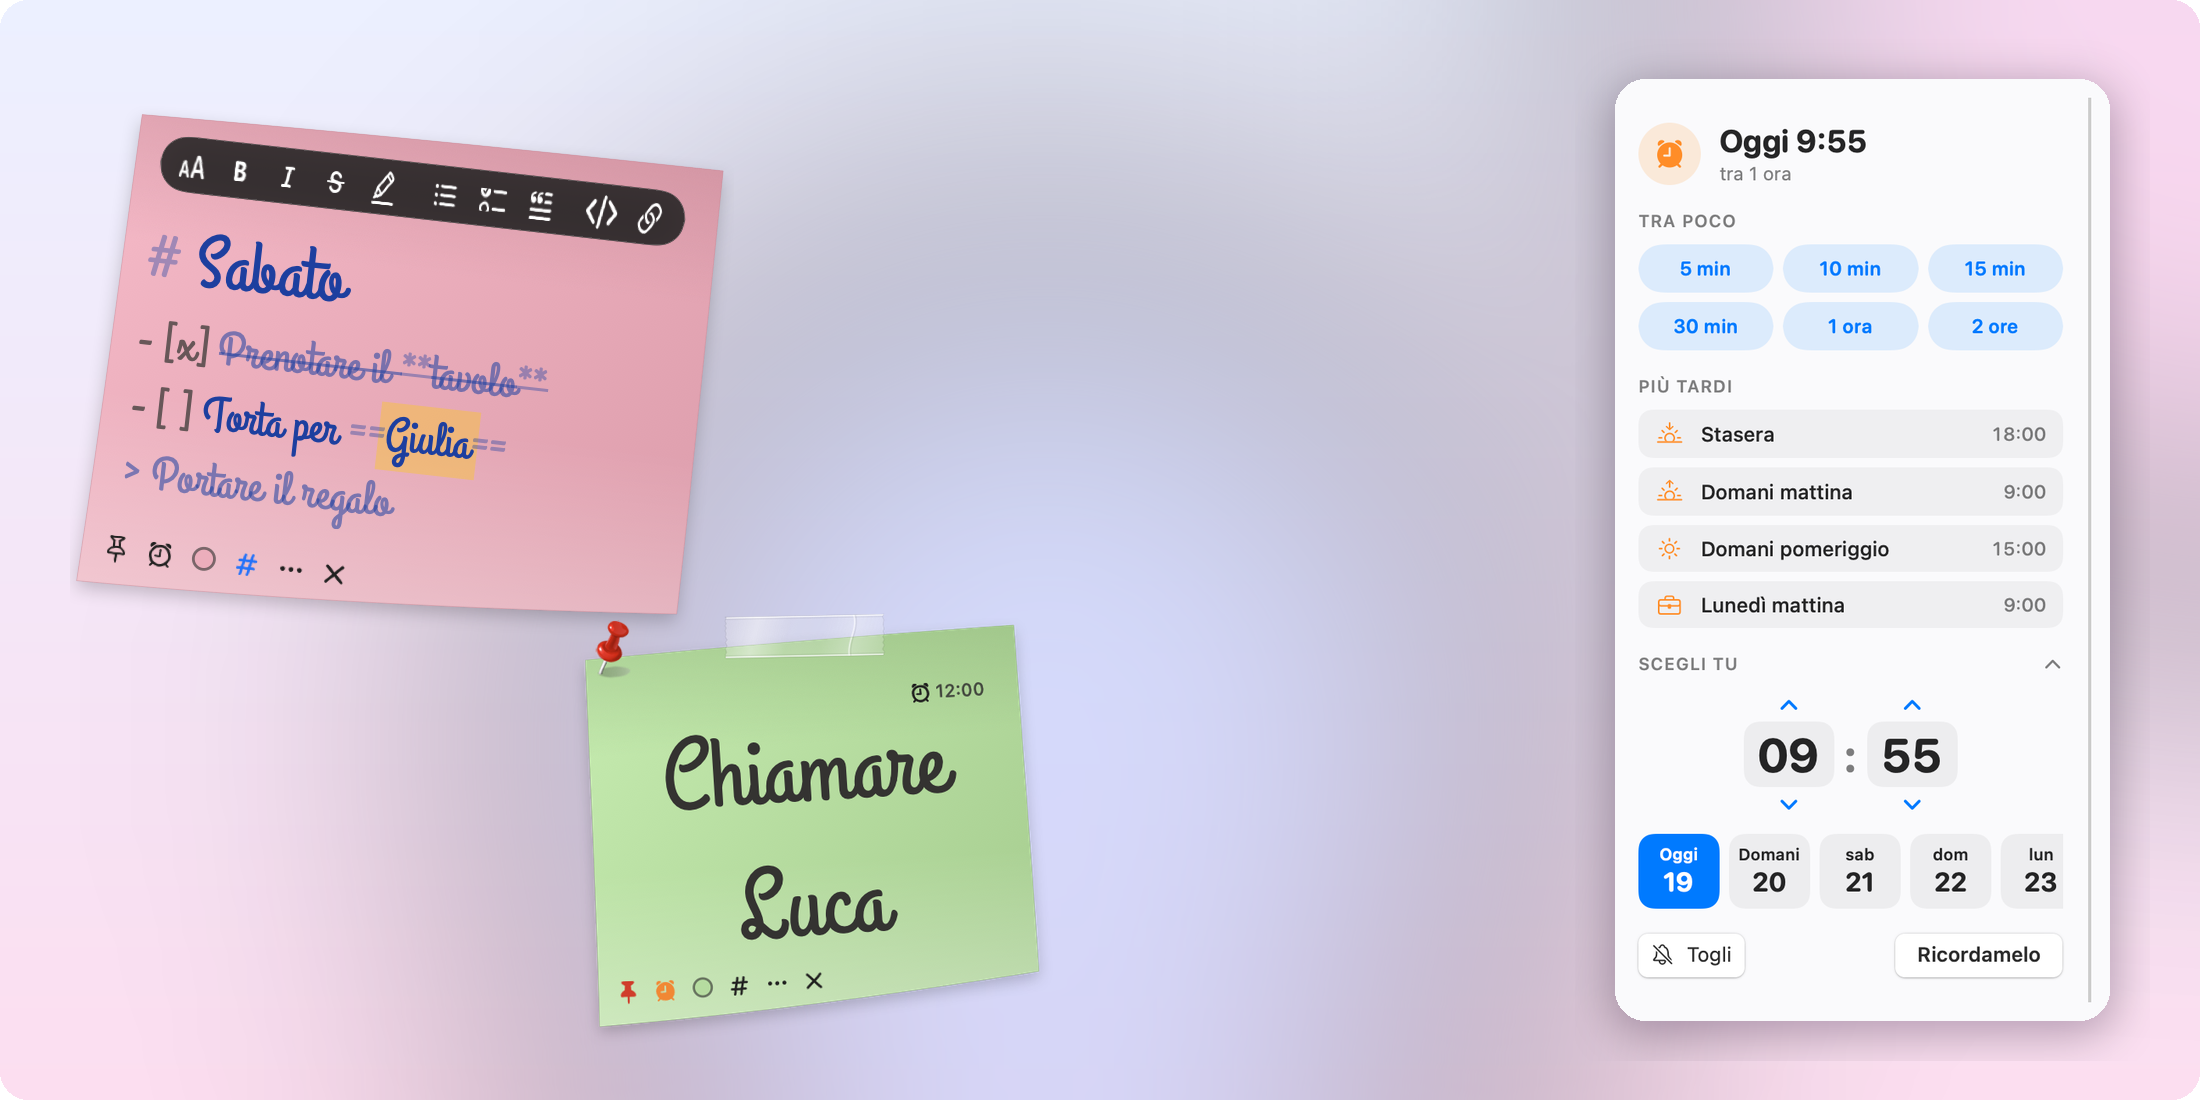
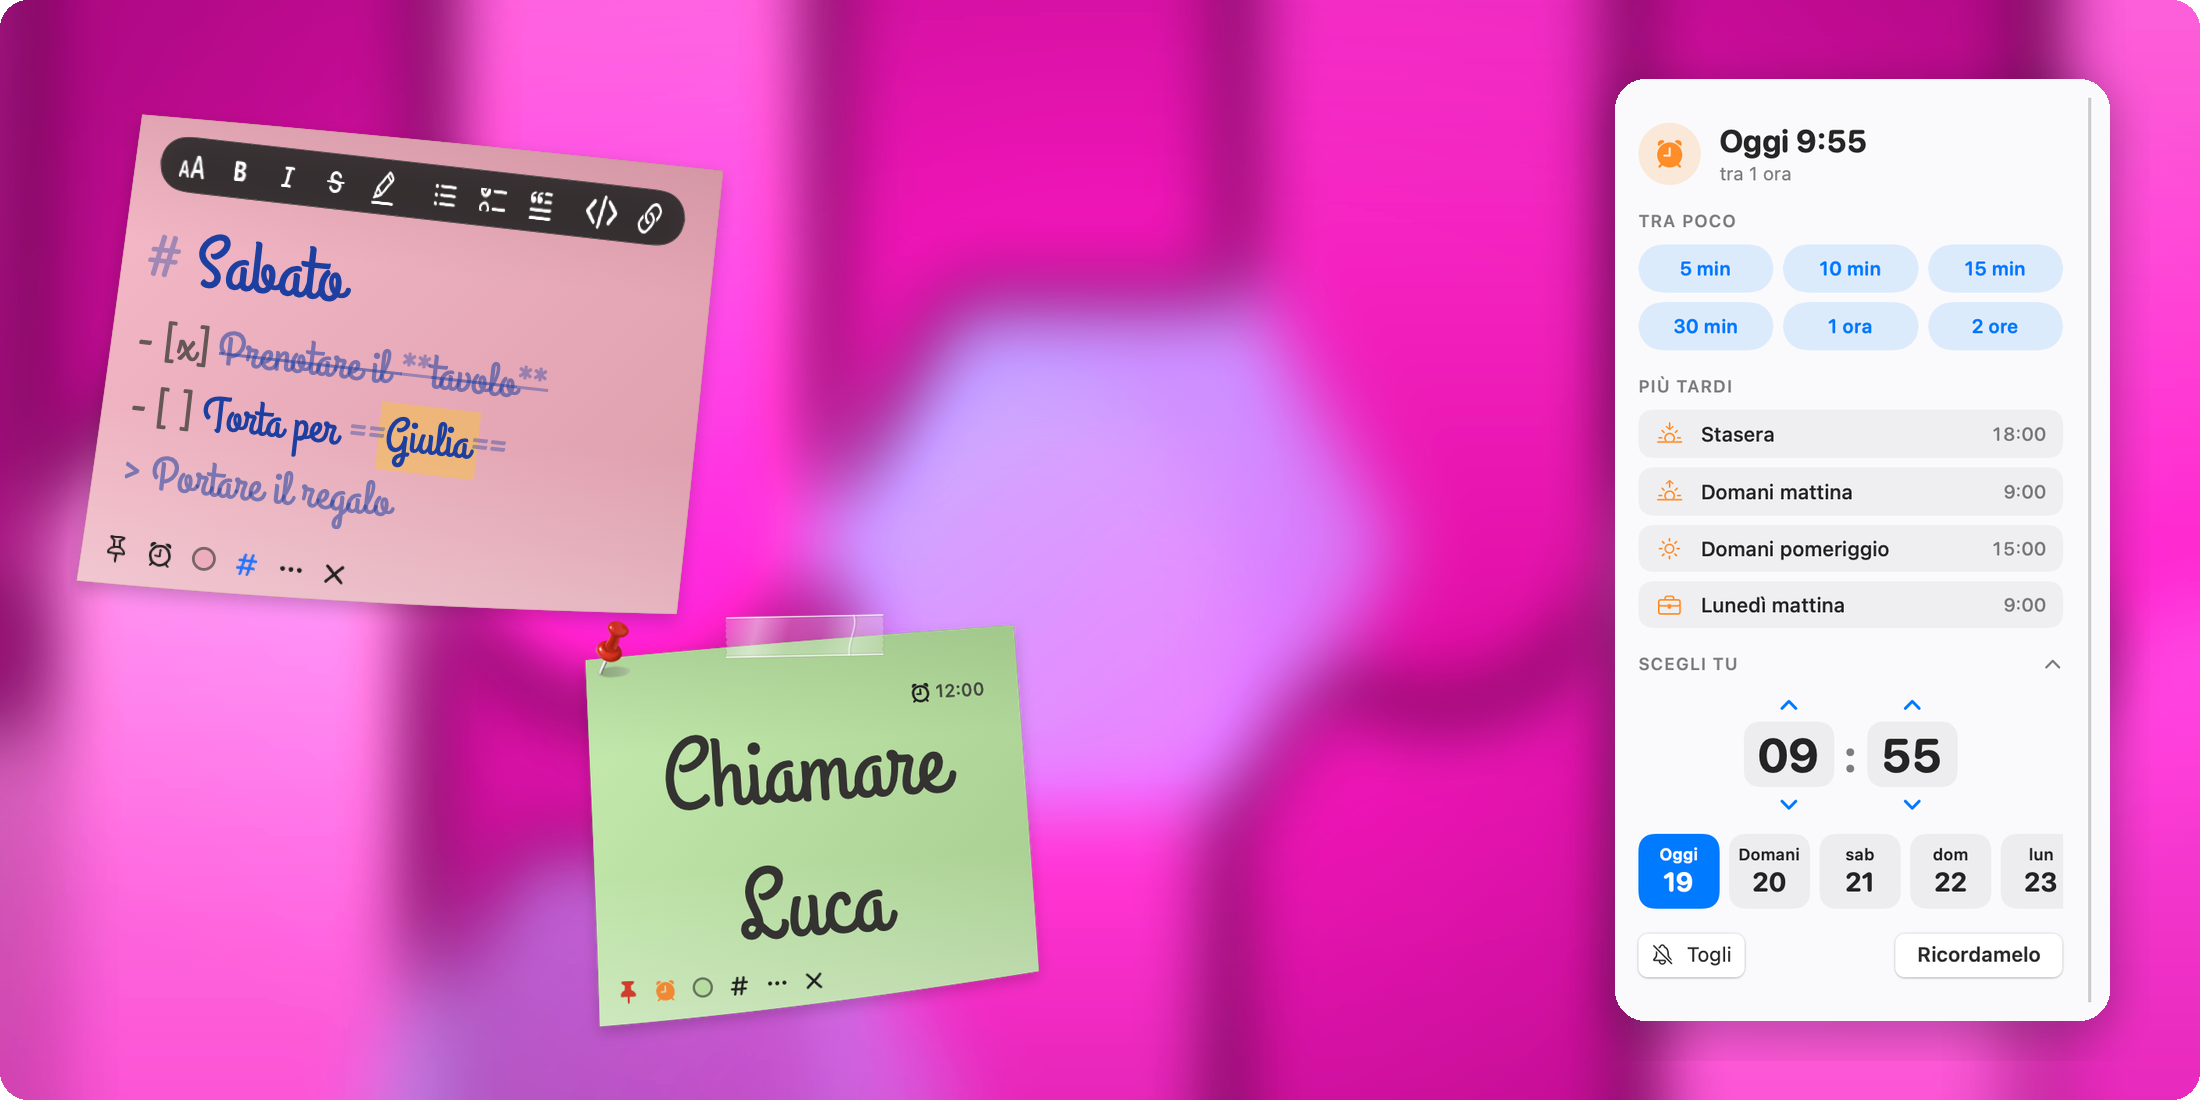
Immagini del README sullo sfondo fucsia di Pizzinu
make_screenshots.py usa lo stesso sfondo fucsia del sito e delle immagini
social per scrivania, temi, pizzino segreto e Markdown.

diff --git a/Scripts/make_screenshots.py b/Scripts/make_screenshots.py
@@ -8,11 +8,11 @@ Uso:
 Richiede Pillow. Produce desktop.png, themes.png, secret.png, markdown-reminder.png.
 Liquid Glass non c'è: il vetro di sistema non compare nelle istantanee.
 """
-import random
+import math
 import sys
 from pathlib import Path
 
-from PIL import Image, ImageDraw, ImageFilter
+from PIL import Image, ImageDraw, ImageFilter, ImageEnhance
 
 SNAP = Path(sys.argv[1])
 OUT = Path(sys.argv[2])
@@ -37,25 +37,72 @@ def scale(im: Image.Image, factor: float) -> Image.Image:
     return im.resize((round(im.width * factor), round(im.height * factor)), Image.LANCZOS)
 
 
-def wallpaper(w: int, h: int, colors, blobs, seed: int = 7) -> Image.Image:
-    """Sfondo sfumato con macchie di colore morbide, nello stile delle scrivanie di macOS."""
-    base = Image.new("RGB", (w, h))
-    top, bottom = colors
-    draw = ImageDraw.Draw(base)
+def hexc(h): return tuple(int(h[i:i + 2], 16) for i in (1, 3, 5))
+
+def vgrad(w, h, top, bottom):
+    g = Image.new('RGB', (1, h))
     for y in range(h):
-        t = y / (h - 1)
-        draw.line([(0, y), (w, y)], fill=tuple(round(a + (b - a) * t) for a, b in zip(top, bottom)))
-    layer = Image.new("RGBA", (w, h), (0, 0, 0, 0))
-    ld = ImageDraw.Draw(layer)
-    rnd = random.Random(seed)
-    for color in blobs:
-        r = rnd.randint(h // 3, h // 2)
-        x, y = rnd.randint(0, w), rnd.randint(0, h)
-        ld.ellipse([x - r, y - r, x + r, y + r], fill=color + (150,))
-    layer = layer.filter(ImageFilter.GaussianBlur(h // 6))
-    out = base.convert("RGBA")
-    out.alpha_composite(layer)
-    return out
+        t = y / max(1, h - 1)
+        g.putpixel((0, y), tuple(int(a + (b - a) * t) for a, b in zip(top, bottom)))
+    return g.resize((w, h))
+
+def fuchsia(W, H):
+    """Sfondo fucsia di Pizzinu (lo stesso del sito e delle immagini social)."""
+    # viewBox 1200×800 in «slice», come nel sito.
+    k = max(W / 1200, H / 800) * 1.25
+    ox, oy = (W - 1200 * k) / 2, (H - 800 * k) / 2
+    bg = Image.new('RGB', (W, H))
+    c0, c1 = hexc('#e51fb2'), hexc('#9d0c78')
+    cx, cy, R = W / 2, H / 2, 0.8 * math.hypot(W, H) / math.sqrt(2)
+    small = Image.new('RGB', (W // 4, H // 4))
+    for y in range(small.height):
+        for x in range(small.width):
+            t = min(1, math.hypot(x * 4 - cx, y * 4 - cy) / R)
+            small.putpixel((x, y), tuple(int(a + (b - a) * t) for a, b in zip(c0, c1)))
+    bg = small.resize((W, H), Image.BICUBIC)
+    layer = Image.new('RGBA', (W, H), (0, 0, 0, 0))
+    grads = {'A': ('#ff4fe0', '#c2108f'), 'B': ('#ffa6ee', '#f21fc0')}
+    pills = [(-40, -90, 170, 560, 'A'), (135, 330, 170, 560, 'B'), (310, -90, 170, 560, 'B'),
+             (485, 330, 170, 560, 'A'), (660, -90, 170, 560, 'A'), (835, 330, 170, 560, 'B'),
+             (1010, -90, 170, 560, 'B'), (-40, 420, 170, 460, 'B'), (1010, 420, 170, 460, 'A')]
+    for x, y, w, h, g in pills:
+        X, Y, PW, PH = int(ox + x * k), int(oy + y * k), int(w * k), int(h * k)
+        fill = vgrad(PW, PH, hexc(grads[g][0]), hexc(grads[g][1]))
+        mask = Image.new('L', (PW, PH), 0)
+        ImageDraw.Draw(mask).rounded_rectangle([0, 0, PW - 1, PH - 1], radius=int(85 * k), fill=255)
+        pill = fill.convert('RGBA'); pill.putalpha(mask)
+        layer.alpha_composite(pill, (X, Y)) if X >= 0 and Y >= 0 else layer.paste(pill, (X, Y), pill)
+    for pts, op in [([(730, 400), (665, 512), (535, 512), (470, 400), (535, 287), (665, 287)], 0.7),
+                    ([(540, 640), (475, 752), (345, 752), (280, 640), (345, 527), (475, 527)], 0.45)]:
+        P = [(ox + px * k, oy + py * k) for px, py in pts]
+        xs, ys = [p[0] for p in P], [p[1] for p in P]
+        bx, by, bw, bh = int(min(xs)), int(min(ys)), int(max(xs) - min(xs)) + 1, int(max(ys) - min(ys)) + 1
+        fill = Image.new('RGB', (bw, bh))
+        a, b = hexc('#8fd0ff'), hexc('#d985ff')
+        for yy in range(bh):
+            for xx in range(0, bw, 2):
+                t = (xx / bw + yy / bh) / 2
+                col = tuple(int(u + (v - u) * t) for u, v in zip(a, b))
+                fill.putpixel((xx, yy), col)
+                if xx + 1 < bw: fill.putpixel((xx + 1, yy), col)
+        mask = Image.new('L', (bw, bh), 0)
+        ImageDraw.Draw(mask).polygon([(x - bx, y - by) for x, y in P], fill=int(255 * op))
+        hx = fill.convert('RGBA'); hx.putalpha(mask)
+        layer.alpha_composite(hx, (bx, by))
+    layer = layer.filter(ImageFilter.GaussianBlur(16 * k))
+    out = bg.convert('RGBA'); out.alpha_composite(layer)
+    # vignettatura come nel video
+    vig = Image.new('L', (W // 4, H // 4))
+    for y in range(vig.height):
+        for x in range(vig.width):
+            d = math.hypot((x * 4 - W / 2) / (W * 0.6), (y * 4 - H * 0.45) / (H * 0.6))
+            vig.putpixel((x, y), int(255 * 0.12 * max(0, min(1, (d - 0.4) / 0.6))))
+    vig = vig.resize((W, H), Image.BICUBIC)
+    dark = Image.new('RGBA', (W, H), (40, 0, 30, 0)); dark.putalpha(vig)
+    out.alpha_composite(dark)
+    out = ImageEnhance.Brightness(out.convert('RGB')).enhance(1.10)
+    out = ImageEnhance.Color(out).enhance(1.08)
+    return out.convert('RGBA')
 
 
 def rounded(im: Image.Image, radius: int) -> Image.Image:
@@ -73,8 +120,7 @@ def save(im: Image.Image, name: str, radius: int = 28) -> None:
 
 # 1. Scrivania con i pizzini
 W, H = 2400, 1400
-desk = wallpaper(W, H, ((252, 214, 236), (196, 186, 252)),
-                 [(255, 170, 214), (160, 200, 255), (255, 214, 160), (200, 160, 255)])
+desk = fuchsia(W, H)
 placements = [  # (file, x, y, scala)
     ("spesa", 140, 120, 1.0),
     ("chiamare", 700, 90, 1.0),
@@ -93,8 +139,7 @@ save(desk, "desktop.png")
 themes = [trim(load(p)) for p in sorted(VETRINA.glob("tema-*.png"))]
 cols, cell_w, cell_h = 5, 440, 400
 rows = (len(themes) + cols - 1) // cols
-gal = wallpaper(cols * cell_w + 80, rows * cell_h + 80, ((255, 246, 251), (238, 232, 255)),
-                [(255, 205, 232), (205, 225, 255)], seed=3)
+gal = fuchsia(cols * cell_w + 80, rows * cell_h + 80)
 for i, im in enumerate(themes):
     f = min((cell_w - 40) / im.width, (cell_h - 40) / im.height, 0.8)
     im = scale(im, f)
@@ -107,7 +152,7 @@ save(gal, "themes.png")
 # 3. Pizzino segreto: aperto → sigillato
 opened = trim(load(SNAP / "segreto-aperto.png"))
 sealed = scale(trim(load(SNAP / "segreto-chiuso.png")), 1.5)
-sec = wallpaper(1800, 820, ((248, 238, 222), (226, 210, 190)), [(255, 226, 190), (230, 196, 170)], seed=11)
+sec = fuchsia(1800, 820)
 sec.alpha_composite(opened, (110, (820 - opened.height) // 2))
 arrow = ImageDraw.Draw(sec)
 ax, ay = 110 + opened.width + 70, 410
@@ -127,7 +172,7 @@ card.alpha_composite(picker, (24, 24))
 picker = rounded(scale(card, 0.78), 30)
 tools = scale(trim(load(VETRINA / "comandi.png")), 0.85)
 W4, H4 = 2200, 1100
-mr = wallpaper(W4, H4, ((236, 240, 255), (252, 222, 240)), [(190, 210, 255), (255, 200, 230)], seed=5)
+mr = fuchsia(W4, H4)
 mr.alpha_composite(md, (70, 90))
 mr.alpha_composite(tools, (560, H4 - tools.height - 50))
 shadow = Image.new("RGBA", (picker.width + 80, picker.height + 80), (0, 0, 0, 0))
